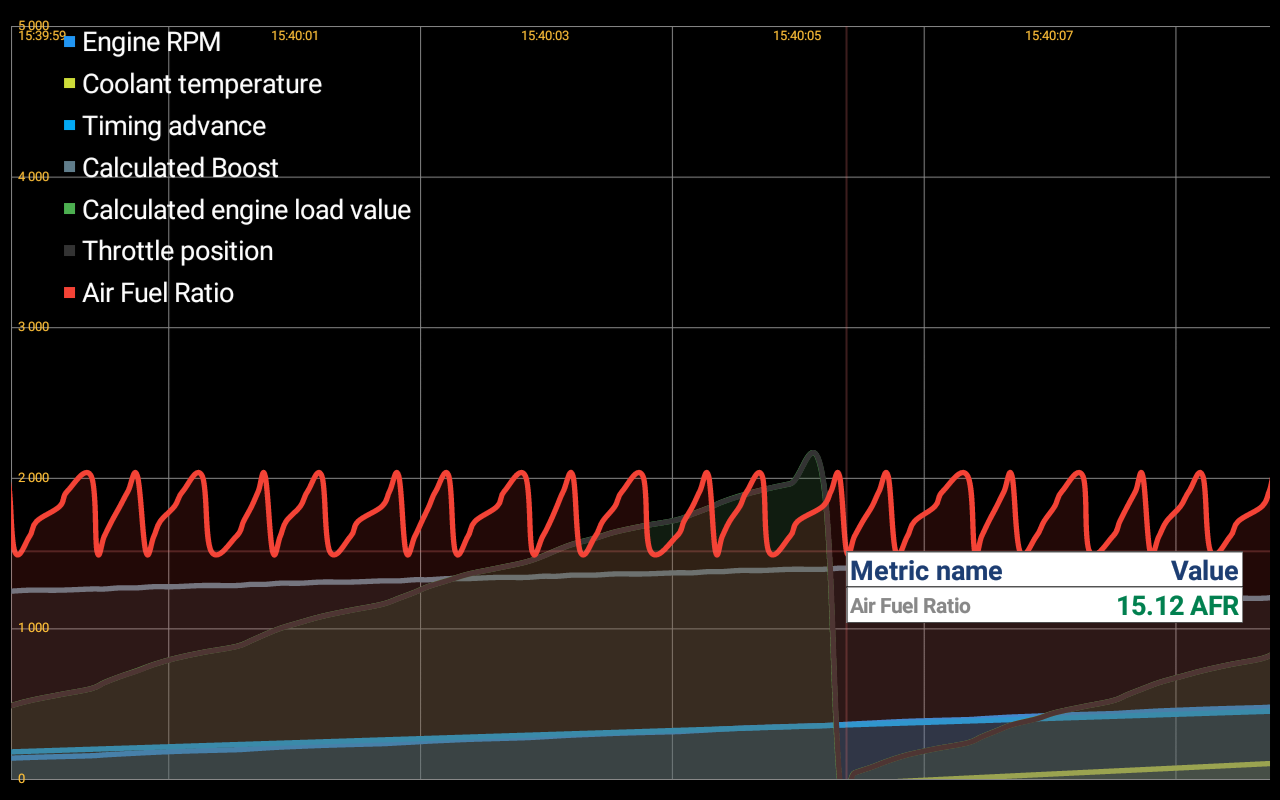
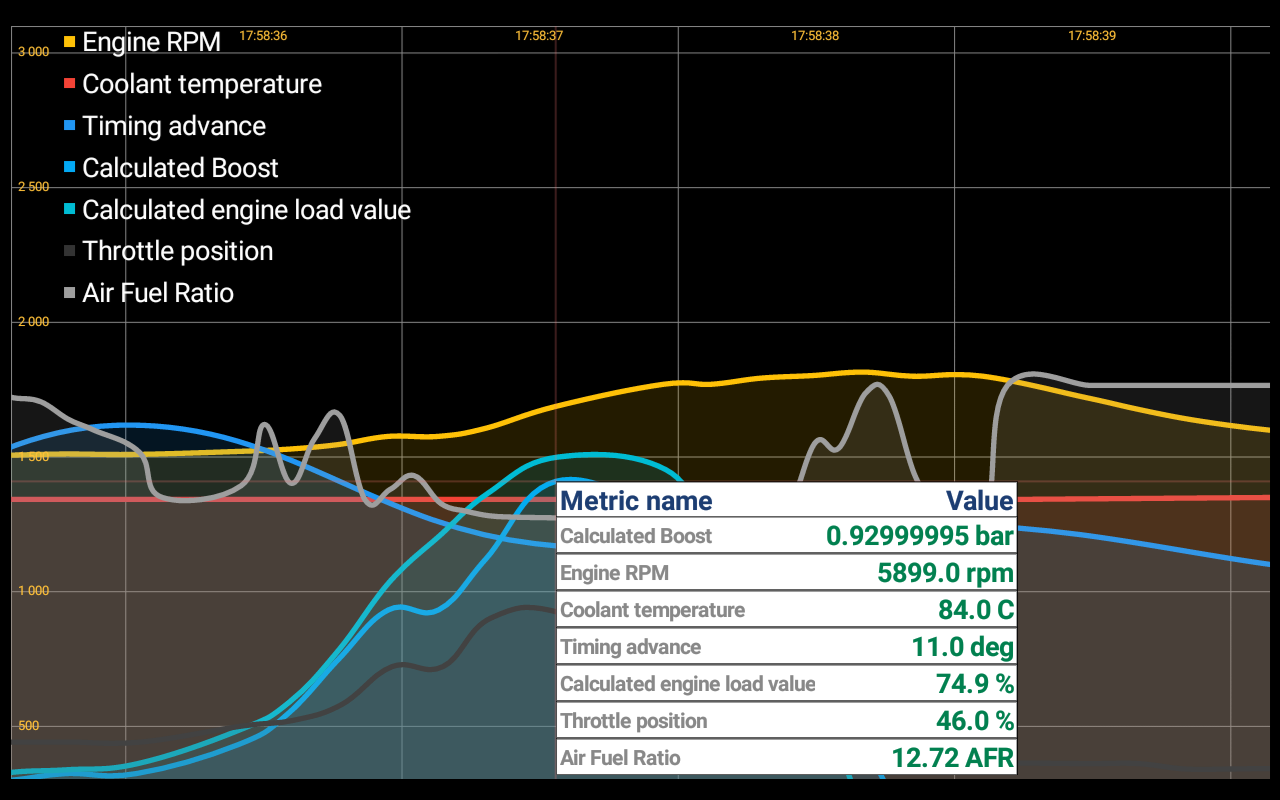
Display all the metric within the MarkerWindow.

diff --git a/app/src/main/java/org/openobd2/core/logger/ui/graph/MarkerWindow.kt b/app/src/main/java/org/openobd2/core/logger/ui/graph/MarkerWindow.kt
@@ -3,6 +3,7 @@ package org.openobd2.core.logger.ui.graph
 import android.content.Context
 import androidx.recyclerview.widget.GridLayoutManager
 import androidx.recyclerview.widget.RecyclerView
+import com.github.mikephil.charting.charts.LineChart
 import com.github.mikephil.charting.components.MarkerView
 import com.github.mikephil.charting.data.Entry
 import com.github.mikephil.charting.highlight.Highlight
@@ -12,26 +13,70 @@ import org.obd.metrics.pid.PidDefinitionRegistry
 import org.openobd2.core.logger.R
 import org.openobd2.core.logger.bl.datalogger.DataLogger
 
-class MarkerWindow(context: Context?, layoutResource: Int) :
+class MarkerWindow(context: Context?, layoutResource: Int, private val chart: LineChart) :
     MarkerView(context, layoutResource) {
     private val valueScaler  = ValueScaler()
 
-    private fun buildMetrics(value: Set<Pair<Long,Float>>): MutableList<ObdMetric> {
+    private fun buildMetrics( id: Long, v: Float): ObdMetric {
         val pidRegistry: PidDefinitionRegistry =  DataLogger.instance.pidDefinitionRegistry()
-        return value.map {
-            val pid = pidRegistry.findBy(it.first)
-            val value  = valueScaler.scaleToPidRange(pid, it.second)
-            ObdMetric.builder().command(ObdCommand(pid)).value(value).build()
-        }.toMutableList()
+        val pid = pidRegistry.findBy(id)
+        val value  = valueScaler.scaleToPidRange(pid,v)
+        return ObdMetric.builder().command(ObdCommand(pid)).value(value).build()
     }
 
     override fun refreshContent(e: Entry, highlight: Highlight?) {
-        val id = (e.data as Long)
-        val emptyMetrics = buildMetrics(setOf(Pair(id,e.y)))
-        val adapter = MarkerWindowViewAdapter(context, emptyMetrics)
+        val metrics = findClosestMetrics(e)
+
+        val adapter = MarkerWindowViewAdapter(context, metrics)
         val recyclerView: RecyclerView = findViewById(R.id.recycler_view)
         recyclerView.layoutManager = GridLayoutManager(context, 1)
         recyclerView.adapter = adapter
         super.refreshContent(e, highlight)
+    }
+
+    private fun findClosestMetrics(e: Entry): MutableCollection<ObdMetric> {
+        val metricsMap = mutableMapOf<Long, ObdMetric>()
+        e.data?.let {
+            metricsMap[(e.data.toString().toLong())] =
+                buildMetrics((e.data.toString().toLong() as Long), e.y)
+        }
+
+        chart.data.dataSets.forEach {
+            var x = 0
+
+            do {
+                val entriesForXValue = it.getEntriesForXValue(e.x + x)
+                if (entriesForXValue.isNotEmpty()) {
+                    entriesForXValue.forEach { entry ->
+                        e.data?.let {
+                            val id = entry.data.toString().toLong()
+                            metricsMap[id] =
+                                buildMetrics(id, entry.y)
+                        }
+                    }
+                } else {
+                    x = updateXValue(x)
+                }
+
+            } while (entriesForXValue.isEmpty())
+        }
+        return metricsMap.values
+    }
+
+    private fun updateXValue(x: Int): Int {
+        var x1 = x
+        when {
+            x1 == 0 -> {
+                x1++
+            }
+            x1 < 0 -> {
+                x1 *= -1
+                x1++
+            }
+            else -> {
+                x1 *= -1
+            }
+        }
+        return x1
     }
 }

diff --git a/app/src/main/java/org/openobd2/core/logger/ui/graph/GraphFragment.kt b/app/src/main/java/org/openobd2/core/logger/ui/graph/GraphFragment.kt
@@ -86,8 +86,6 @@ class GraphFragment : Fragment() {
         requireContext().unregisterReceiver(broadcastReceiver)
     }
 
-
-
     override fun onCreateView(
         inflater: LayoutInflater,
         container: ViewGroup?,
@@ -197,7 +195,7 @@ class GraphFragment : Fragment() {
             isHighlightPerDragEnabled = true
             setBackgroundColor(Color.BLACK)
             setViewPortOffsets(10f, 10f, 10f, 10f)
-            marker = MarkerWindow(context, R.layout.graph_marker_view)
+            marker = MarkerWindow(context, R.layout.graph_marker_view, this)
 
             legend.run {
                 isEnabled = true
